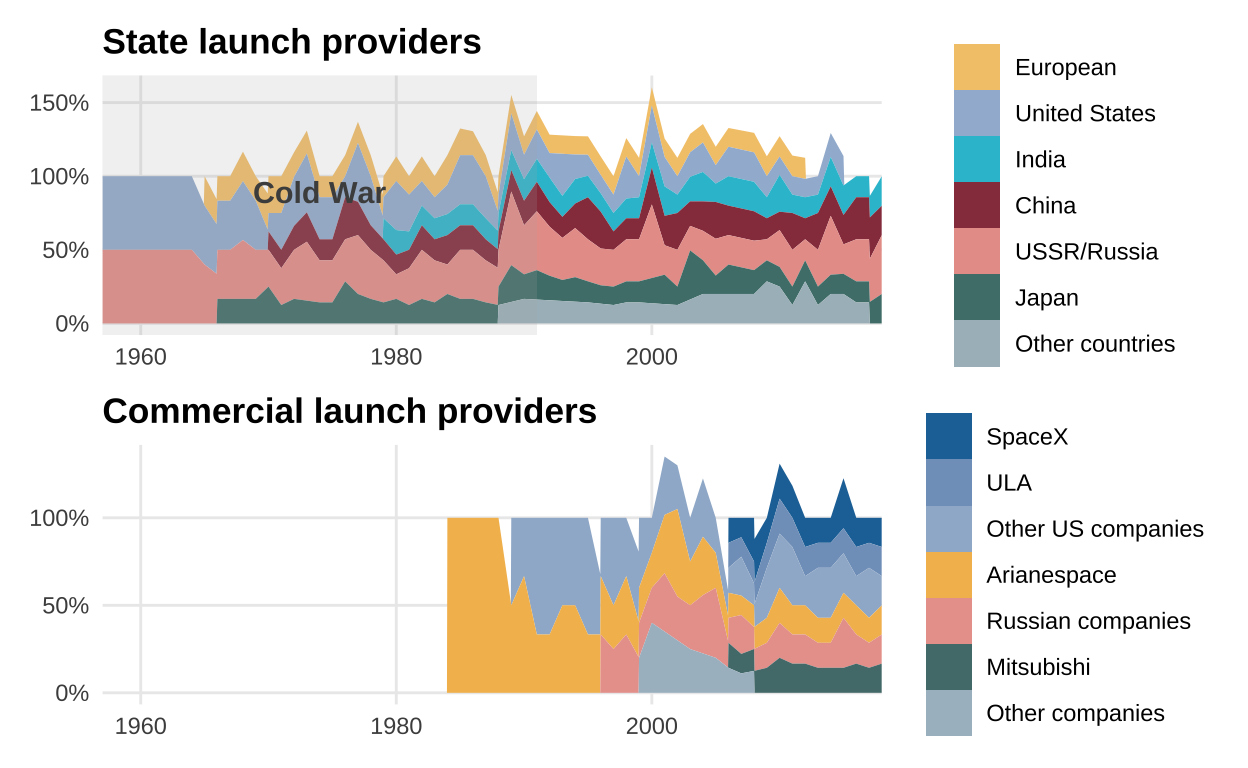
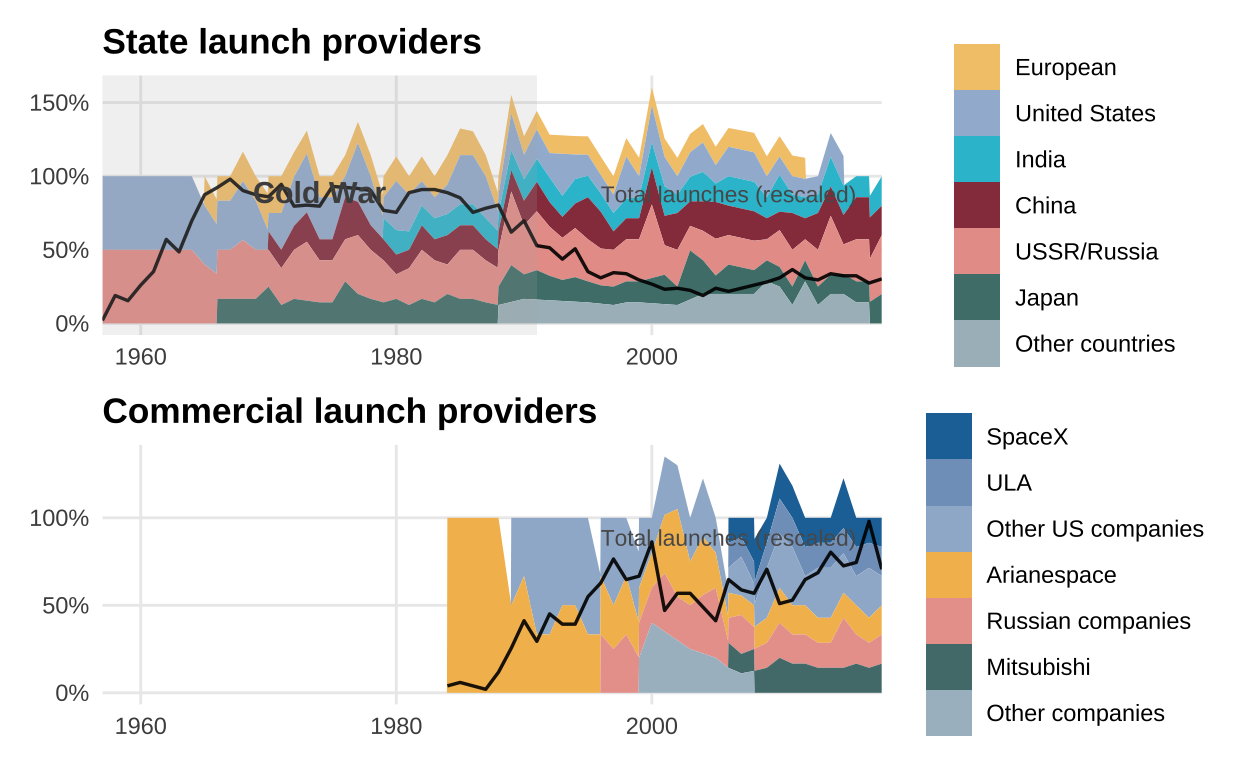
edit in improvement section

diff --git a/_projects/2025/100564676/100564676.html b/_projects/2025/100564676/100564676.html
@@ -2197,12 +2197,12 @@ code span.wa { color: #5e5e5e; font-style: italic; } /* Warning */
 <p><img src="100564676_files/figure-html5/plot7-1.png" width="100%" style="display: block; margin: auto;" /></p>
 </div>
 <h2 id="chart-improvement">Chart Improvement</h2>
-<p>This final section explores the same launch dataset through a different lens: <strong>composition over time</strong> rather than absolute launch volume. The data is reshaped to calculate, for each year, the <strong>share (%)</strong> of launches contributed by each provider group—separately for <strong>state</strong> and <strong>commercial</strong> actors.</p>
-<p>The result is a pair of stacked <strong>area charts</strong>. The state panel shows how the balance among major spacefaring countries changes year by year, while the commercial panel highlights how the private market becomes increasingly concentrated around leading firms (and how smaller players collectively rise or decline). A shaded band marks the <strong>Cold War period (1957–1991)</strong> in the state chart, making it easier to interpret how the provider mix shifts before and after the duopoly era.</p>
-<p>Compared with the original mirrored stacked bars—which emphasize <em>how many</em> launches occurred and how success/failure evolved—this alternative view makes it easier to see <em>who</em> dominates <strong>within each year</strong>, even when total launch counts change dramatically. In other words, it highlights relative influence and changing market structure that can be harder to notice in an absolute-volume timeline.</p>
+<p>This final section re-examines the same launch dataset through a different lens: <strong>composition over time</strong>, rather than absolute launch counts alone. The data is reshaped to calculate, for each year, the share (%) of launches contributed by each provider group, shown separately for state and commercial actors. To complement this view, a rescaled line is overlaid to indicate changes in the total number of launches, allowing composition and scale to be interpreted together.</p>
+<p>The resulting stacked area charts reveal how the balance among major spacefaring nations evolves over time in the state panel, while the commercial panel highlights the growing dominance of leading private firms alongside shifts among smaller players. A shaded band marks the Cold War period (1957–1991) in the state chart, providing historical context for changes in both market structure and launch intensity.</p>
+<p>Compared with the original mirrored stacked bars—which emphasize absolute launch volumes and mission outcomes—this alternative visualization makes it easier to identify <strong>relative dominance within each year</strong>, while the overlaid line preserves information about overall growth or decline in launch activity. Together, these elements offer a clearer view of how the space race has transitioned from a geopolitically driven competition to a market-driven expansion.</p>
 <div class="layout-chunk" data-layout="l-body">
 <div class="sourceCode">
-<pre class="sourceCode r"><code class="sourceCode r"><span><span class='co'># 1) Data processing</span></span>
+<pre class="sourceCode r"><code class="sourceCode r"><span><span class='co'># 1) Data processing: yearly shares within each side</span></span>
 <span><span class='va'>share_state</span> <span class='op'>&lt;-</span> <span class='va'>summary_df</span> <span class='op'><a href='https://magrittr.tidyverse.org/reference/pipe.html'>%&gt;%</a></span></span>
 <span>  <span class='fu'><a href='https://dplyr.tidyverse.org/reference/filter.html'>filter</a></span><span class='op'>(</span><span class='va'>provider_side</span> <span class='op'>==</span> <span class='st'>"state"</span><span class='op'>)</span> <span class='op'><a href='https://magrittr.tidyverse.org/reference/pipe.html'>%&gt;%</a></span></span>
 <span>  <span class='fu'><a href='https://dplyr.tidyverse.org/reference/mutate.html'>mutate</a></span><span class='op'>(</span>agency_group <span class='op'>=</span> <span class='fu'><a href='https://stringr.tidyverse.org/reference/str_remove.html'>str_remove</a></span><span class='op'>(</span><span class='va'>agency_stack</span>, <span class='st'>"^state_"</span><span class='op'>)</span><span class='op'>)</span> <span class='op'><a href='https://magrittr.tidyverse.org/reference/pipe.html'>%&gt;%</a></span></span>
@@ -2224,19 +2224,51 @@ code span.wa { color: #5e5e5e; font-style: italic; } /* Warning */
 <span><span class='va'>x_min</span> <span class='op'>&lt;-</span> <span class='fu'><a href='https://rdrr.io/r/base/Extremes.html'>min</a></span><span class='op'>(</span><span class='va'>summary_df</span><span class='op'>$</span><span class='va'>launch_year</span>, na.rm <span class='op'>=</span> <span class='cn'>TRUE</span><span class='op'>)</span></span>
 <span><span class='va'>x_max</span> <span class='op'>&lt;-</span> <span class='fu'><a href='https://rdrr.io/r/base/Extremes.html'>max</a></span><span class='op'>(</span><span class='va'>summary_df</span><span class='op'>$</span><span class='va'>launch_year</span>, na.rm <span class='op'>=</span> <span class='cn'>TRUE</span><span class='op'>)</span></span>
 <span></span>
-<span><span class='co'># 2) State area</span></span>
+<span><span class='co'># 1-2) Yearly totals (for overlay line)</span></span>
+<span><span class='va'>year_totals</span> <span class='op'>&lt;-</span> <span class='va'>summary_df</span> <span class='op'><a href='https://magrittr.tidyverse.org/reference/pipe.html'>%&gt;%</a></span></span>
+<span>  <span class='fu'><a href='https://dplyr.tidyverse.org/reference/group_by.html'>group_by</a></span><span class='op'>(</span><span class='va'>launch_year</span>, <span class='va'>provider_side</span><span class='op'>)</span> <span class='op'><a href='https://magrittr.tidyverse.org/reference/pipe.html'>%&gt;%</a></span></span>
+<span>  <span class='fu'><a href='https://dplyr.tidyverse.org/reference/summarise.html'>summarise</a></span><span class='op'>(</span>total <span class='op'>=</span> <span class='fu'><a href='https://rdrr.io/r/base/sum.html'>sum</a></span><span class='op'>(</span><span class='va'>launches</span><span class='op'>)</span>, .groups <span class='op'>=</span> <span class='st'>"drop"</span><span class='op'>)</span></span>
+<span></span>
+<span><span class='va'>state_total</span> <span class='op'>&lt;-</span> <span class='va'>year_totals</span> <span class='op'><a href='https://magrittr.tidyverse.org/reference/pipe.html'>%&gt;%</a></span> <span class='fu'><a href='https://dplyr.tidyverse.org/reference/filter.html'>filter</a></span><span class='op'>(</span><span class='va'>provider_side</span> <span class='op'>==</span> <span class='st'>"state"</span><span class='op'>)</span></span>
+<span><span class='va'>comm_total</span>  <span class='op'>&lt;-</span> <span class='va'>year_totals</span> <span class='op'><a href='https://magrittr.tidyverse.org/reference/pipe.html'>%&gt;%</a></span> <span class='fu'><a href='https://dplyr.tidyverse.org/reference/filter.html'>filter</a></span><span class='op'>(</span><span class='va'>provider_side</span> <span class='op'>==</span> <span class='st'>"commercial"</span><span class='op'>)</span></span>
+<span></span>
+<span><span class='co'># rescale totals to 0~1 so they can be overlaid on the share axis</span></span>
+<span><span class='va'>state_line</span> <span class='op'>&lt;-</span> <span class='va'>state_total</span> <span class='op'><a href='https://magrittr.tidyverse.org/reference/pipe.html'>%&gt;%</a></span></span>
+<span>  <span class='fu'><a href='https://dplyr.tidyverse.org/reference/mutate.html'>mutate</a></span><span class='op'>(</span>total01 <span class='op'>=</span> <span class='fu'>scales</span><span class='fu'>::</span><span class='fu'><a href='https://scales.r-lib.org/reference/rescale.html'>rescale</a></span><span class='op'>(</span><span class='va'>total</span>, to <span class='op'>=</span> <span class='fu'><a href='https://rdrr.io/r/base/c.html'>c</a></span><span class='op'>(</span><span class='fl'>0.02</span>, <span class='fl'>0.98</span><span class='op'>)</span><span class='op'>)</span><span class='op'>)</span></span>
+<span></span>
+<span><span class='va'>comm_line</span> <span class='op'>&lt;-</span> <span class='va'>comm_total</span> <span class='op'><a href='https://magrittr.tidyverse.org/reference/pipe.html'>%&gt;%</a></span></span>
+<span>  <span class='fu'><a href='https://dplyr.tidyverse.org/reference/mutate.html'>mutate</a></span><span class='op'>(</span>total01 <span class='op'>=</span> <span class='fu'>scales</span><span class='fu'>::</span><span class='fu'><a href='https://scales.r-lib.org/reference/rescale.html'>rescale</a></span><span class='op'>(</span><span class='va'>total</span>, to <span class='op'>=</span> <span class='fu'><a href='https://rdrr.io/r/base/c.html'>c</a></span><span class='op'>(</span><span class='fl'>0.02</span>, <span class='fl'>0.98</span><span class='op'>)</span><span class='op'>)</span><span class='op'>)</span></span>
+<span></span>
+<span></span>
+<span><span class='co'># 2) State area + total launches (rescaled) line</span></span>
 <span><span class='va'>p_state</span> <span class='op'>&lt;-</span> <span class='fu'><a href='https://ggplot2.tidyverse.org/reference/ggplot.html'>ggplot</a></span><span class='op'>(</span><span class='va'>share_state</span>, <span class='fu'><a href='https://ggplot2.tidyverse.org/reference/aes.html'>aes</a></span><span class='op'>(</span>x <span class='op'>=</span> <span class='va'>launch_year</span>, y <span class='op'>=</span> <span class='va'>share</span>, fill <span class='op'>=</span> <span class='va'>agency_group</span><span class='op'>)</span><span class='op'>)</span> <span class='op'>+</span></span>
 <span>  <span class='fu'><a href='https://ggplot2.tidyverse.org/reference/geom_ribbon.html'>geom_area</a></span><span class='op'>(</span>linewidth <span class='op'>=</span> <span class='fl'>0</span><span class='op'>)</span> <span class='op'>+</span></span>
+<span>  <span class='fu'><a href='https://ggplot2.tidyverse.org/reference/geom_path.html'>geom_line</a></span><span class='op'>(</span></span>
+<span>    data <span class='op'>=</span> <span class='va'>state_line</span>,</span>
+<span>    <span class='fu'><a href='https://ggplot2.tidyverse.org/reference/aes.html'>aes</a></span><span class='op'>(</span>x <span class='op'>=</span> <span class='va'>launch_year</span>, y <span class='op'>=</span> <span class='va'>total01</span><span class='op'>)</span>,</span>
+<span>    inherit.aes <span class='op'>=</span> <span class='cn'>FALSE</span>,</span>
+<span>    linewidth <span class='op'>=</span> <span class='fl'>0.6</span>,</span>
+<span>    alpha <span class='op'>=</span> <span class='fl'>0.9</span></span>
+<span>  <span class='op'>)</span> <span class='op'>+</span></span>
+<span>  <span class='fu'><a href='https://ggplot2.tidyverse.org/reference/annotate.html'>annotate</a></span><span class='op'>(</span></span>
+<span>    <span class='st'>"text"</span>,</span>
+<span>    x <span class='op'>=</span> <span class='va'>x_max</span> <span class='op'>-</span> <span class='fl'>2</span>, y <span class='op'>=</span> <span class='fl'>0.93</span>,</span>
+<span>    label <span class='op'>=</span> <span class='st'>"Total launches (rescaled)"</span>,</span>
+<span>    hjust <span class='op'>=</span> <span class='fl'>1</span>, vjust <span class='op'>=</span> <span class='fl'>1</span>,</span>
+<span>    size <span class='op'>=</span> <span class='fl'>3</span>, color <span class='op'>=</span> <span class='st'>"grey35"</span></span>
+<span>  <span class='op'>)</span> <span class='op'>+</span></span>
 <span>  <span class='fu'><a href='https://ggplot2.tidyverse.org/reference/scale_continuous.html'>scale_y_continuous</a></span><span class='op'>(</span>labels <span class='op'>=</span> <span class='fu'><a href='https://scales.r-lib.org/reference/percent_format.html'>percent_format</a></span><span class='op'>(</span>accuracy <span class='op'>=</span> <span class='fl'>1</span><span class='op'>)</span><span class='op'>)</span> <span class='op'>+</span></span>
 <span>  <span class='fu'><a href='https://ggplot2.tidyverse.org/reference/scale_continuous.html'>scale_x_continuous</a></span><span class='op'>(</span>limits <span class='op'>=</span> <span class='fu'><a href='https://rdrr.io/r/base/c.html'>c</a></span><span class='op'>(</span><span class='va'>x_min</span>, <span class='va'>x_max</span><span class='op'>)</span>, expand <span class='op'>=</span> <span class='fu'><a href='https://rdrr.io/r/base/c.html'>c</a></span><span class='op'>(</span><span class='fl'>0</span>, <span class='fl'>0</span><span class='op'>)</span><span class='op'>)</span> <span class='op'>+</span></span>
 <span>  <span class='fu'><a href='https://ggplot2.tidyverse.org/reference/scale_manual.html'>scale_fill_manual</a></span><span class='op'>(</span>values <span class='op'>=</span> <span class='va'>base_palette</span><span class='op'>[</span><span class='va'>state_levels</span><span class='op'>]</span>, drop <span class='op'>=</span> <span class='cn'>FALSE</span><span class='op'>)</span> <span class='op'>+</span></span>
 <span>  <span class='fu'><a href='https://ggplot2.tidyverse.org/reference/labs.html'>labs</a></span><span class='op'>(</span>title <span class='op'>=</span> <span class='st'>"State launch providers"</span>, x <span class='op'>=</span> <span class='cn'>NULL</span>, y <span class='op'>=</span> <span class='cn'>NULL</span>, fill <span class='op'>=</span> <span class='cn'>NULL</span><span class='op'>)</span> <span class='op'>+</span></span>
 <span>  <span class='fu'><a href='https://ggplot2.tidyverse.org/reference/ggtheme.html'>theme_minimal</a></span><span class='op'>(</span>base_size <span class='op'>=</span> <span class='fl'>11</span><span class='op'>)</span> <span class='op'>+</span></span>
-<span>  <span class='fu'><a href='https://ggplot2.tidyverse.org/reference/theme.html'>theme</a></span><span class='op'>(</span>panel.grid.minor <span class='op'>=</span> <span class='fu'><a href='https://ggplot2.tidyverse.org/reference/element.html'>element_blank</a></span><span class='op'>(</span><span class='op'>)</span>,</span>
-<span>        plot.title <span class='op'>=</span> <span class='fu'><a href='https://ggplot2.tidyverse.org/reference/element.html'>element_text</a></span><span class='op'>(</span>face <span class='op'>=</span> <span class='st'>"bold"</span><span class='op'>)</span>,</span>
-<span>        legend.position <span class='op'>=</span> <span class='st'>"right"</span><span class='op'>)</span></span>
+<span>  <span class='fu'><a href='https://ggplot2.tidyverse.org/reference/theme.html'>theme</a></span><span class='op'>(</span></span>
+<span>    panel.grid.minor <span class='op'>=</span> <span class='fu'><a href='https://ggplot2.tidyverse.org/reference/element.html'>element_blank</a></span><span class='op'>(</span><span class='op'>)</span>,</span>
+<span>    plot.title <span class='op'>=</span> <span class='fu'><a href='https://ggplot2.tidyverse.org/reference/element.html'>element_text</a></span><span class='op'>(</span>face <span class='op'>=</span> <span class='st'>"bold"</span><span class='op'>)</span>,</span>
+<span>    legend.position <span class='op'>=</span> <span class='st'>"right"</span></span>
+<span>  <span class='op'>)</span></span>
 <span></span>
-<span><span class='co'># 3) Cold War </span></span>
+<span><span class='co'># 3) Cold War shading (state only)</span></span>
 <span><span class='va'>cold_war</span> <span class='op'>&lt;-</span> <span class='fu'><a href='https://tibble.tidyverse.org/reference/tibble.html'>tibble</a></span><span class='op'>(</span>xmin <span class='op'>=</span> <span class='fl'>1957</span>, xmax <span class='op'>=</span> <span class='fl'>1991</span>, ymin <span class='op'>=</span> <span class='op'>-</span><span class='cn'>Inf</span>, ymax <span class='op'>=</span> <span class='cn'>Inf</span><span class='op'>)</span></span>
 <span></span>
 <span><span class='va'>p_state</span> <span class='op'>&lt;-</span> <span class='va'>p_state</span> <span class='op'>+</span></span>
@@ -2256,17 +2288,35 @@ code span.wa { color: #5e5e5e; font-style: italic; } /* Warning */
 <span>    fontface <span class='op'>=</span> <span class='st'>"bold"</span></span>
 <span>  <span class='op'>)</span></span>
 <span></span>
-<span><span class='co'># 4) Commercial area</span></span>
+<span></span>
+<span><span class='co'># 4) Commercial area + total launches (rescaled) line</span></span>
 <span><span class='va'>p_comm</span> <span class='op'>&lt;-</span> <span class='fu'><a href='https://ggplot2.tidyverse.org/reference/ggplot.html'>ggplot</a></span><span class='op'>(</span><span class='va'>share_comm</span>, <span class='fu'><a href='https://ggplot2.tidyverse.org/reference/aes.html'>aes</a></span><span class='op'>(</span>x <span class='op'>=</span> <span class='va'>launch_year</span>, y <span class='op'>=</span> <span class='va'>share</span>, fill <span class='op'>=</span> <span class='va'>agency_group</span><span class='op'>)</span><span class='op'>)</span> <span class='op'>+</span></span>
 <span>  <span class='fu'><a href='https://ggplot2.tidyverse.org/reference/geom_ribbon.html'>geom_area</a></span><span class='op'>(</span>linewidth <span class='op'>=</span> <span class='fl'>0</span><span class='op'>)</span> <span class='op'>+</span></span>
+<span>  <span class='fu'><a href='https://ggplot2.tidyverse.org/reference/geom_path.html'>geom_line</a></span><span class='op'>(</span></span>
+<span>    data <span class='op'>=</span> <span class='va'>comm_line</span>,</span>
+<span>    <span class='fu'><a href='https://ggplot2.tidyverse.org/reference/aes.html'>aes</a></span><span class='op'>(</span>x <span class='op'>=</span> <span class='va'>launch_year</span>, y <span class='op'>=</span> <span class='va'>total01</span><span class='op'>)</span>,</span>
+<span>    inherit.aes <span class='op'>=</span> <span class='cn'>FALSE</span>,</span>
+<span>    linewidth <span class='op'>=</span> <span class='fl'>0.6</span>,</span>
+<span>    alpha <span class='op'>=</span> <span class='fl'>0.9</span></span>
+<span>  <span class='op'>)</span> <span class='op'>+</span></span>
+<span>  <span class='fu'><a href='https://ggplot2.tidyverse.org/reference/annotate.html'>annotate</a></span><span class='op'>(</span></span>
+<span>    <span class='st'>"text"</span>,</span>
+<span>    x <span class='op'>=</span> <span class='va'>x_max</span> <span class='op'>-</span> <span class='fl'>2</span>, y <span class='op'>=</span> <span class='fl'>0.93</span>,</span>
+<span>    label <span class='op'>=</span> <span class='st'>"Total launches (rescaled)"</span>,</span>
+<span>    hjust <span class='op'>=</span> <span class='fl'>1</span>, vjust <span class='op'>=</span> <span class='fl'>1</span>,</span>
+<span>    size <span class='op'>=</span> <span class='fl'>3</span>, color <span class='op'>=</span> <span class='st'>"grey35"</span></span>
+<span>  <span class='op'>)</span> <span class='op'>+</span></span>
 <span>  <span class='fu'><a href='https://ggplot2.tidyverse.org/reference/scale_continuous.html'>scale_y_continuous</a></span><span class='op'>(</span>labels <span class='op'>=</span> <span class='fu'><a href='https://scales.r-lib.org/reference/percent_format.html'>percent_format</a></span><span class='op'>(</span>accuracy <span class='op'>=</span> <span class='fl'>1</span><span class='op'>)</span><span class='op'>)</span> <span class='op'>+</span></span>
 <span>  <span class='fu'><a href='https://ggplot2.tidyverse.org/reference/scale_continuous.html'>scale_x_continuous</a></span><span class='op'>(</span>limits <span class='op'>=</span> <span class='fu'><a href='https://rdrr.io/r/base/c.html'>c</a></span><span class='op'>(</span><span class='va'>x_min</span>, <span class='va'>x_max</span><span class='op'>)</span>, expand <span class='op'>=</span> <span class='fu'><a href='https://rdrr.io/r/base/c.html'>c</a></span><span class='op'>(</span><span class='fl'>0</span>, <span class='fl'>0</span><span class='op'>)</span><span class='op'>)</span> <span class='op'>+</span></span>
 <span>  <span class='fu'><a href='https://ggplot2.tidyverse.org/reference/scale_manual.html'>scale_fill_manual</a></span><span class='op'>(</span>values <span class='op'>=</span> <span class='va'>base_palette</span><span class='op'>[</span><span class='va'>commercial_levels</span><span class='op'>]</span>, drop <span class='op'>=</span> <span class='cn'>FALSE</span><span class='op'>)</span> <span class='op'>+</span></span>
 <span>  <span class='fu'><a href='https://ggplot2.tidyverse.org/reference/labs.html'>labs</a></span><span class='op'>(</span>title <span class='op'>=</span> <span class='st'>"Commercial launch providers"</span>, x <span class='op'>=</span> <span class='cn'>NULL</span>, y <span class='op'>=</span> <span class='cn'>NULL</span>, fill <span class='op'>=</span> <span class='cn'>NULL</span><span class='op'>)</span> <span class='op'>+</span></span>
 <span>  <span class='fu'><a href='https://ggplot2.tidyverse.org/reference/ggtheme.html'>theme_minimal</a></span><span class='op'>(</span>base_size <span class='op'>=</span> <span class='fl'>11</span><span class='op'>)</span> <span class='op'>+</span></span>
-<span>  <span class='fu'><a href='https://ggplot2.tidyverse.org/reference/theme.html'>theme</a></span><span class='op'>(</span>panel.grid.minor <span class='op'>=</span> <span class='fu'><a href='https://ggplot2.tidyverse.org/reference/element.html'>element_blank</a></span><span class='op'>(</span><span class='op'>)</span>,</span>
-<span>        plot.title <span class='op'>=</span> <span class='fu'><a href='https://ggplot2.tidyverse.org/reference/element.html'>element_text</a></span><span class='op'>(</span>face <span class='op'>=</span> <span class='st'>"bold"</span><span class='op'>)</span>,</span>
-<span>        legend.position <span class='op'>=</span> <span class='st'>"right"</span><span class='op'>)</span></span>
+<span>  <span class='fu'><a href='https://ggplot2.tidyverse.org/reference/theme.html'>theme</a></span><span class='op'>(</span></span>
+<span>    panel.grid.minor <span class='op'>=</span> <span class='fu'><a href='https://ggplot2.tidyverse.org/reference/element.html'>element_blank</a></span><span class='op'>(</span><span class='op'>)</span>,</span>
+<span>    plot.title <span class='op'>=</span> <span class='fu'><a href='https://ggplot2.tidyverse.org/reference/element.html'>element_text</a></span><span class='op'>(</span>face <span class='op'>=</span> <span class='st'>"bold"</span><span class='op'>)</span>,</span>
+<span>    legend.position <span class='op'>=</span> <span class='st'>"right"</span></span>
+<span>  <span class='op'>)</span></span>
+<span></span>
 <span></span>
 <span><span class='co'># 5) Final plot</span></span>
 <span><span class='va'>final_plot</span> <span class='op'>&lt;-</span> <span class='va'>p_state</span> <span class='op'>/</span> <span class='va'>p_comm</span> <span class='op'>+</span> <span class='fu'><a href='https://patchwork.data-imaginist.com/reference/plot_layout.html'>plot_layout</a></span><span class='op'>(</span>heights <span class='op'>=</span> <span class='fu'><a href='https://rdrr.io/r/base/c.html'>c</a></span><span class='op'>(</span><span class='fl'>1</span>, <span class='fl'>1</span><span class='op'>)</span><span class='op'>)</span></span>
